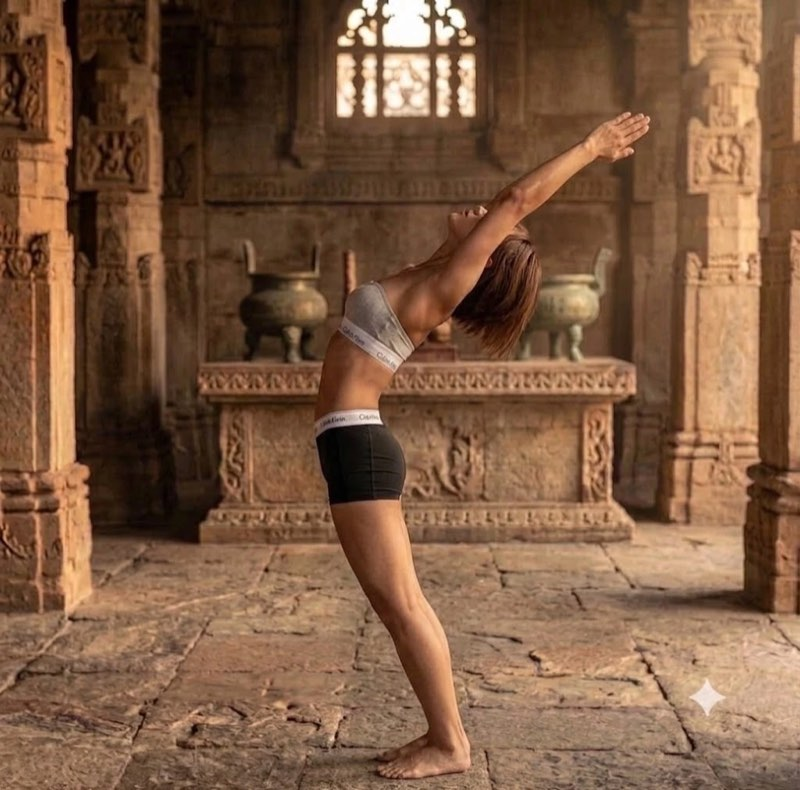
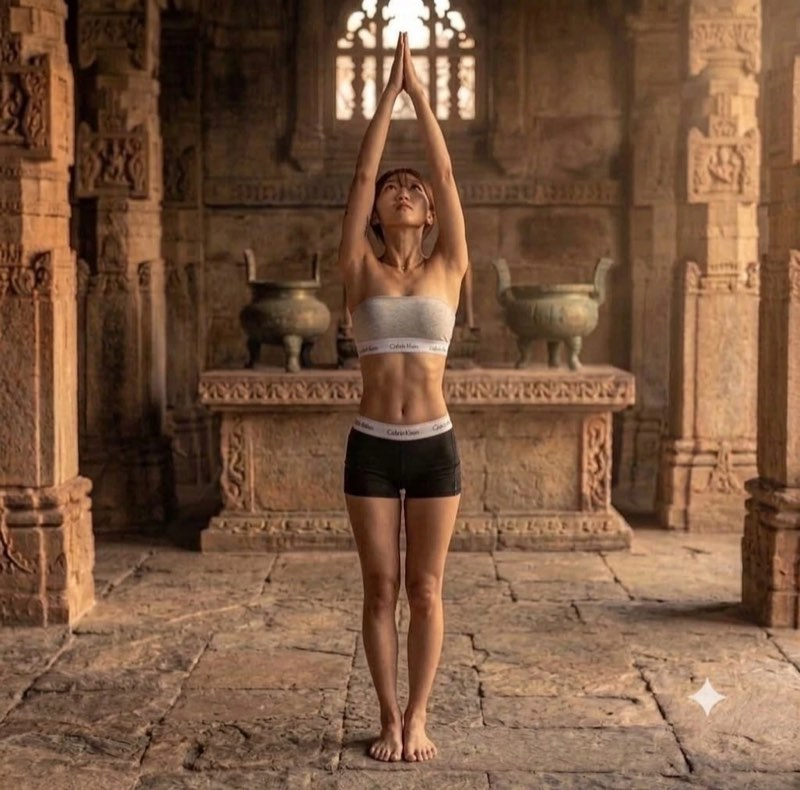
Photoreal set grows: 4 more standing poses + first 2 floor replacements
Batches two and three of the temple-photography direction. Standing:
Upward Salute (swapped to the palms-together vertical take — it teaches
"gaze follows the thumbs" better than the backbend, kept in masters as
arms_up_backbend), Standing Forward Fold, Half Lift, Downward Dog,
Warrior I Left. Floor: Child's Pose and Seated Forward Fold replace
their line-art (old versions live in git history). Four takes are held
in masters because the image contradicts the card's own cue:
plank_forearm (cue: hands under shoulders), cobra_high (cue: low,
elbows in — the Up Dog safety stand-in), chair_shallow (cue: sit deep),
legs_up_nowall (cue: supported restorative hold). POSE_IMAGES.md
tracks the regen list. CACHE_NAME to v24.

diff --git a/app/sw.js b/app/sw.js
@@ -1,7 +1,7 @@
 // Rosary Yoga service worker — offline-first cache for the practice.
 // Bump CACHE_NAME whenever app shell or data changes.
 
-const CACHE_NAME = "rosary-yoga-v22";
+const CACHE_NAME = "rosary-yoga-v24";
 
 const ASSETS = [
   "./",
@@ -34,6 +34,10 @@ const ASSETS = [
   "assets/poses/vinyasa.svg",
   "assets/poses/photos/mountain_prayer.jpg",
   "assets/poses/photos/arms_up.jpg",
+  "assets/poses/photos/half_lift.jpg",
+  "assets/poses/photos/standing_fold.jpg",
+  "assets/poses/photos/down_dog.jpg",
+  "assets/poses/photos/warrior_1_left.jpg",
   "assets/poses/photos/seated_forward_fold.jpg",
   "assets/poses/photos/child_pose.jpg",
   "assets/poses/photos/supported_butterfly.jpg",

diff --git a/docs/POSE_IMAGES.md b/docs/POSE_IMAGES.md
@@ -5,11 +5,31 @@ The app shows one image per pose, chosen in this order: a `photo` (JPG) if the p
 This document gives a precise prompt you can paste into Gemini, ChatGPT image generation, Midjourney, or any other image model, plus the file names the app expects.
 
 **Masters:** full-resolution originals live in `art/masters/` at the repo root;
-the app serves downscaled copies (~800px, jpeg q62) from `photos/`. Current
-status: `mountain_prayer` and `arms_up` ship with photoreal temple-style
-photos — a different language than the line-art brief below. If that style
-becomes the direction, the remaining standing poses should be generated to
-match the masters, and this brief updated.
+the app serves downscaled copies (~800px, jpeg q62) from `photos/`.
+
+**Current status — the photoreal temple set is the active direction.** Shipping
+with photos: `mountain_prayer`, `arms_up`, `standing_fold`, `half_lift`,
+`down_dog`, `warrior_1_left` (standing) and `child_pose`,
+`seated_forward_fold` (floor, replacing their line art). Still needed to
+complete the set — regenerate these so the image teaches the card's own cue:
+
+- `plank` — the generated take (`masters/plank_forearm.jpg`) is a forearm
+  plank; the cue says "hands under the shoulders" (straight arms).
+- `cobra` — the generated take (`masters/cobra_high.jpg`) is a high,
+  straight-arm cobra; the cue teaches Low Cobra ("elbows hugging the ribs…
+  low is honest"), the deliberate safety stand-in for Up Dog.
+- `chair` — the generated take (`masters/chair_shallow.jpg`) barely bends the
+  knees; the cue says "sit the hips back and down… the thighs burn quietly."
+- `warrior_1_right` — mirror of `warrior_1_left`, right foot forward.
+- `legs_up_wall` — the generated take (`masters/legs_up_nowall.jpg`) balances
+  the legs vertically with no wall; the cue teaches a supported, restorative
+  hold ("sit close to a wall, hip touching it"). Regenerate with the wall.
+- The remaining floor poses, if the floor practice should match.
+
+Unplaced masters: `arms_up_backbend.jpg` (alternate Upward Salute),
+`arm_floats.jpg` / `half_salutation_guide.jpg` (composite cards keep their SVG
+triptychs), `seated_meditation.jpg` (no pose; candidate for mystery
+interludes).
 
 ---
 
